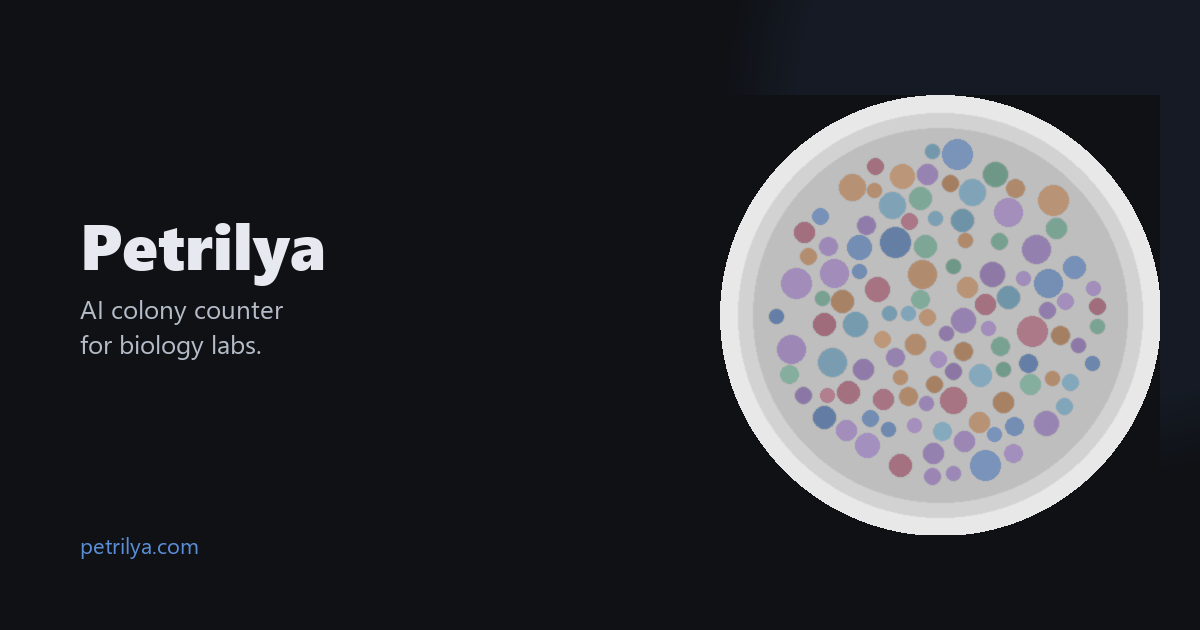
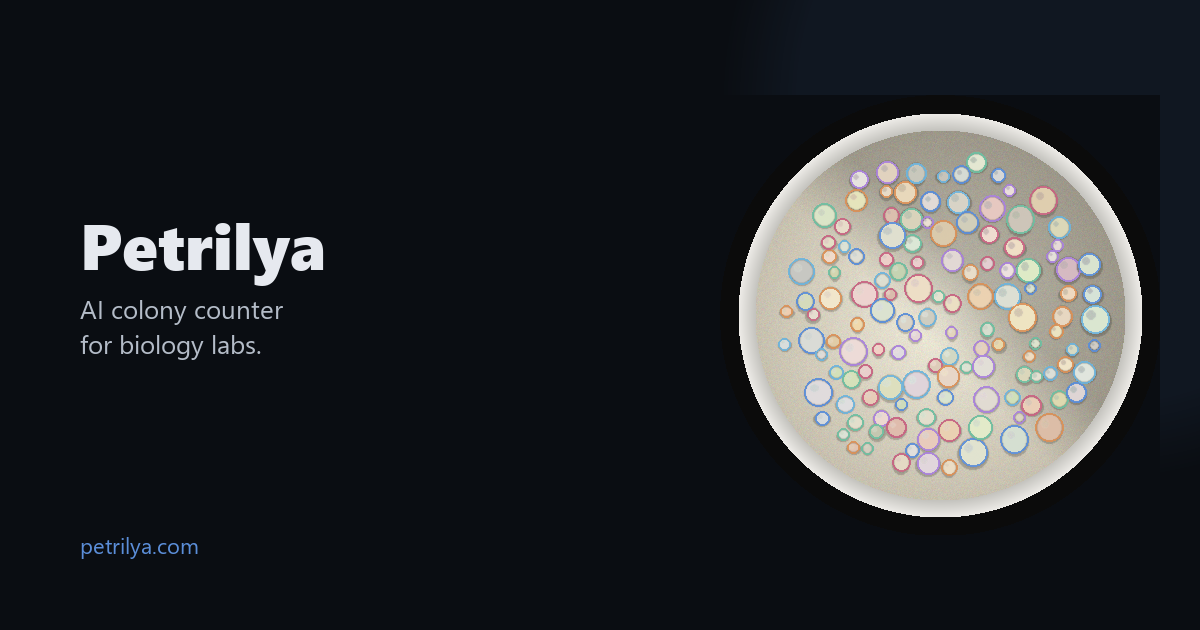
hero: photoreal Petri dish with realistic AI detection overlay
The old hero was clearly procedural — uniform colored disks on
flat gray, looked more like a kindergarten sticker than a lab
photo. Redesigned generate_hero.py to produce something a
microbiologist would recognize.

Image pipeline (1100x1100 → cropped to a circle):

1. Agar base: cream-to-tan radial gradient with film grain
   (gaussian noise), gentle top-left lighting bias to suggest a
   lab light source. No more flat gray.

2. Plastic dish rim: a darker inner-to-lighter outer band so the
   dish edge actually looks like beveled plastic.

3. Colony bodies: natural cream/pale-yellow/tan/pale-pink tones,
   not bright primary colors. Slight elliptical asymmetry. Drop
   shadow below and specular highlight at top-left for soft 3D.
   A 0.55-pixel gaussian blur ties everything into a photo, not
   geometry.

4. AI detection overlay: thin colored RING outlines (not flat
   fills) over each colony with a very faint inner tint. Looks
   like real CV bounding circles, in the brand palette.

5. ID chips: four floating "#NNN" labels with hairline connectors
   pointing to specific colonies. Selected with spacing so they
   don't crowd. Suggests a structured measurement UI, like real
   lab software.

6. Soft outer blue glow ring grounds the dish in the dark hero.

The OG social-share card uses the same pipeline (smaller dish,
no labels) so both images now share a coherent identity.

Changed region(s): [[0.5858, 0.1508, 0.9867, 0.8746]]

diff --git a/scripts/generate_hero.py b/scripts/generate_hero.py
@@ -1,7 +1,7 @@
 """Generate hero images for the landing page.
 
 Produces:
-  docs/hero-dish.png    a styled before/after of a petri dish
+  docs/hero-dish.png    a photoreal petri dish with AI detection overlay
   docs/og-image.png     a 1200x630 social-share card
 """
 
@@ -13,98 +13,272 @@ import numpy as np
 from PIL import Image, ImageDraw, ImageFilter, ImageFont
 
 
-def synthetic_dish(size: int = 900, n_colonies: int = 180, seed: int = 11) -> np.ndarray:
-    img = Image.new("L", (size, size), color=232)
-    draw = ImageDraw.Draw(img)
-    cx = cy = size // 2
-    radius = int(size * 0.46)
-    draw.ellipse((cx - radius, cy - radius, cx + radius, cy + radius), fill=210)
-    inner = int(radius * 0.93)
-    draw.ellipse((cx - inner, cy - inner, cx + inner, cy + inner), fill=190)
+# ----------------------------------------------------------------------
+# Photoreal Petri dish
+# ----------------------------------------------------------------------
 
-    rng = np.random.default_rng(seed)
-    placed = []
-    attempts = 0
-    while len(placed) < n_colonies and attempts < n_colonies * 30:
-        attempts += 1
-        x = rng.integers(cx - inner, cx + inner)
-        y = rng.integers(cy - inner, cy + inner)
-        if (x - cx) ** 2 + (y - cy) ** 2 > (inner - 22) ** 2:
-            continue
-        r = int(rng.integers(7, 16))
-        if any((x - px) ** 2 + (y - py) ** 2 < (r + pr + 2) ** 2 for px, py, pr in placed):
-            continue
-        placed.append((int(x), int(y), r))
-        shade = int(rng.integers(105, 160))
-        draw.ellipse((x - r, y - r, x + r, y + r), fill=shade)
-
-    img = img.filter(ImageFilter.GaussianBlur(0.7))
-    return np.array(img), placed
+PALETTE_DETECT = [
+    (91, 142, 217),   # accent blue
+    (111, 191, 161),  # accent green
+    (218, 145, 88),   # warm orange
+    (200, 100, 130),  # muted pink
+    (170, 130, 220),  # soft purple
+    (110, 180, 220),  # teal
+]
 
 
-def composite_overlay(base: np.ndarray, colonies: list[tuple[int, int, int]]) -> Image.Image:
-    """Apply colored translucent disks over the base photo."""
-    rgb = np.stack([base] * 3, axis=-1).astype(np.uint8)
-    out = Image.fromarray(rgb).convert("RGBA")
-    overlay = Image.new("RGBA", out.size, (0, 0, 0, 0))
+def _agar_background(size: int, cx: int, cy: int, dish_r: int, inner_r: int, rng) -> Image.Image:
+    """Render the agar interior with a soft radial gradient + film grain."""
+    yy, xx = np.ogrid[:size, :size]
+    dist = np.sqrt((xx - cx) ** 2 + (yy - cy) ** 2)
+
+    arr = np.full((size, size, 3), 11, dtype=np.uint8)  # outer dark background
+
+    # Agar interior — warm cream with subtle darkening toward the rim
+    agar_mask = dist < inner_r
+    t = np.clip(dist / inner_r, 0, 1)
+    center_col = np.array([222, 218, 202], dtype=np.float32)
+    edge_col = np.array([184, 178, 162], dtype=np.float32)
+    agar_rgb = center_col * (1 - t[..., None]) + edge_col * t[..., None]
+
+    # Subtle gradient brightening from top-left (lab light from above)
+    light = np.clip(1 - ((xx - cx) - (yy - cy)) / (inner_r * 2.5), 0.85, 1.08)
+    agar_rgb = np.clip(agar_rgb * light[..., None], 0, 255)
+
+    # Film grain (gaussian noise) — keeps the agar from looking plasticky
+    noise = rng.normal(0, 4.5, (size, size, 3))
+    agar_rgb = np.clip(agar_rgb + noise, 0, 255).astype(np.uint8)
+    arr[agar_mask] = agar_rgb[agar_mask]
+
+    # Dish plastic rim — light, with a subtle inner shadow
+    rim_mask = (dist >= inner_r) & (dist < dish_r)
+    rim_t = (dist - inner_r) / max(1, dish_r - inner_r)
+    rim_inner = np.array([196, 195, 190], dtype=np.float32)
+    rim_outer = np.array([238, 236, 232], dtype=np.float32)
+    rim_rgb = rim_inner * (1 - rim_t[..., None]) + rim_outer * rim_t[..., None]
+    rim_rgb = np.clip(rim_rgb, 0, 255).astype(np.uint8)
+    arr[rim_mask] = rim_rgb[rim_mask]
+
+    return Image.fromarray(arr)
+
+
+def _draw_colonies(
+    dish_img: Image.Image,
+    cx: int,
+    cy: int,
+    inner_r: int,
+    rng,
+    n_target: int = 220,
+) -> tuple[Image.Image, list[tuple[int, int, int]]]:
+    """Layer realistic colony blobs onto the agar; return list of (x,y,r)."""
+    size = dish_img.size[0]
+    overlay = Image.new("RGBA", (size, size), (0, 0, 0, 0))
     draw = ImageDraw.Draw(overlay)
-    rng = np.random.default_rng(42)
-    palette = [
-        (91, 142, 217),   # blue
-        (111, 191, 161),  # green
-        (218, 145, 88),   # orange
-        (200, 100, 130),  # pink
-        (170, 130, 220),  # purple
-        (110, 180, 220),  # teal
-    ]
-    for (x, y, r) in colonies:
-        color = palette[int(rng.integers(0, len(palette)))]
-        draw.ellipse((x - r, y - r, x + r, y + r), fill=(*color, 130))
-    out = Image.alpha_composite(out, overlay)
-    return out
+
+    colonies: list[tuple[int, int, int]] = []
+    margin = 26
+    attempts = 0
+    while len(colonies) < n_target and attempts < n_target * 30:
+        attempts += 1
+        # uniform-area sampling within the agar disc
+        angle = rng.uniform(0, 2 * np.pi)
+        rad = (inner_r - margin) * np.sqrt(rng.uniform(0, 1))
+        x = cx + rad * np.cos(angle)
+        y = cy + rad * np.sin(angle)
+        r = int(rng.integers(5, 14))
+        if any((x - px) ** 2 + (y - py) ** 2 < (r + pr + 1) ** 2 for px, py, pr in colonies):
+            continue
+        colonies.append((int(x), int(y), r))
+
+        # Natural colony tone: mostly cream/pale-yellow, occasionally pink/tan
+        col_pick = rng.uniform()
+        if col_pick < 0.55:
+            base = np.array([242, 236, 215])  # cream
+        elif col_pick < 0.78:
+            base = np.array([235, 223, 188])  # pale yellow
+        elif col_pick < 0.92:
+            base = np.array([220, 205, 188])  # light tan
+        else:
+            base = np.array([245, 226, 218])  # very faint pink
+        base = np.clip(base + rng.integers(-10, 10, size=3), 0, 255)
+        c = tuple(int(v) for v in base)
+
+        # slight elliptical asymmetry
+        rx = r + rng.integers(-1, 2)
+        ry = r + rng.integers(-1, 2)
+
+        # drop shadow
+        draw.ellipse(
+            (x - rx - 1.4, y - ry + 0.5, x + rx + 1.4, y + ry + 2.5),
+            fill=(20, 18, 14, 55),
+        )
+        # body
+        draw.ellipse((x - rx, y - ry, x + rx, y + ry), fill=(*c, 252))
+        # specular highlight (top-left)
+        hx = x - rx * 0.35
+        hy = y - ry * 0.35
+        hr = max(2.0, rx * 0.55)
+        highlight = tuple(int(v) for v in np.clip(base + 25, 0, 255))
+        draw.ellipse((hx - hr * 0.55, hy - hr * 0.55, hx + hr * 0.55, hy + hr * 0.55),
+                     fill=(*highlight, 110))
+
+    # tiny gaussian blur sells the photographic look
+    overlay = overlay.filter(ImageFilter.GaussianBlur(0.55))
+    return Image.alpha_composite(dish_img.convert("RGBA"), overlay), colonies
 
 
-def crop_circle(img: Image.Image) -> Image.Image:
-    """Crop a square image to a centered circle on a dark background."""
-    size = img.size[0]
-    mask = Image.new("L", img.size, 0)
+def _ai_detection_layer(size: int, colonies: list[tuple[int, int, int]]) -> Image.Image:
+    """Thin colored detection rings (not flat fills) — looks like real CV output."""
+    layer = Image.new("RGBA", (size, size), (0, 0, 0, 0))
+    draw = ImageDraw.Draw(layer)
+    for i, (x, y, r) in enumerate(colonies):
+        color = PALETTE_DETECT[i % len(PALETTE_DETECT)]
+        # super-faint inner tint
+        draw.ellipse(
+            (x - r - 1, y - r - 1, x + r + 1, y + r + 1),
+            fill=(*color, 38),
+        )
+        # outline
+        draw.ellipse(
+            (x - r - 1, y - r - 1, x + r + 1, y + r + 1),
+            outline=(*color, 235),
+            width=2,
+        )
+    return layer
+
+
+def _id_labels(
+    size: int,
+    colonies: list[tuple[int, int, int]],
+    rng,
+    n_labels: int = 5,
+) -> Image.Image:
+    """Floating ID chips connected to a handful of colonies."""
+    layer = Image.new("RGBA", (size, size), (0, 0, 0, 0))
+    draw = ImageDraw.Draw(layer)
+    try:
+        font = ImageFont.truetype("segoeui.ttf", 13)
+    except OSError:
+        try:
+            font = ImageFont.truetype("DejaVuSans.ttf", 13)
+        except OSError:
+            font = ImageFont.load_default()
+
+    # pick well-spaced colonies
+    if not colonies:
+        return layer
+    picks: list[int] = []
+    candidates = list(range(len(colonies)))
+    rng.shuffle(candidates)
+    for idx in candidates:
+        x, y, _ = colonies[idx]
+        if all(
+            (x - colonies[p][0]) ** 2 + (y - colonies[p][1]) ** 2 > (size * 0.18) ** 2
+            for p in picks
+        ):
+            picks.append(idx)
+        if len(picks) >= n_labels:
+            break
+
+    for idx in picks:
+        x, y, r = colonies[idx]
+        label = f"#{idx + 1:03d}"
+        text_w = draw.textlength(label, font=font)
+        text_h = 14
+        # offset the chip up-and-right or up-and-left based on position
+        side = 1 if x < size * 0.55 else -1
+        lx = x + side * (r + 18)
+        ly = y - r - 22
+        if side == -1:
+            lx -= text_w + 12
+
+        chip = (lx - 6, ly - 3, lx + text_w + 6, ly + text_h + 3)
+        # connector
+        draw.line(
+            ((chip[0] + chip[2]) / 2, chip[3], x + (r * 0.6 * -side), y - r * 0.4),
+            fill=(91, 142, 217, 180),
+            width=1,
+        )
+        # pill
+        draw.rounded_rectangle(
+            chip,
+            radius=5,
+            fill=(15, 19, 26, 215),
+            outline=(91, 142, 217, 200),
+            width=1,
+        )
+        draw.text((lx, ly), label, fill=(225, 232, 245, 245), font=font)
+    return layer
+
+
+def make_hero_dish(out_path: Path, size: int = 1100) -> None:
+    rng = np.random.default_rng(7)
+    cx = cy = size // 2
+    dish_r = int(size * 0.46)
+    inner_r = int(dish_r * 0.92)
+
+    img = _agar_background(size, cx, cy, dish_r, inner_r, rng)
+    img, colonies = _draw_colonies(img, cx, cy, inner_r, rng, n_target=210)
+    img = Image.alpha_composite(img, _ai_detection_layer(size, colonies))
+    img = Image.alpha_composite(img, _id_labels(size, colonies, rng, n_labels=4))
+
+    # outer vignette ring around the dish for grounding
+    glow = Image.new("RGBA", (size, size), (0, 0, 0, 0))
+    gd = ImageDraw.Draw(glow)
+    for i in range(14, 0, -1):
+        gd.ellipse(
+            (cx - dish_r - i * 3, cy - dish_r - i * 3, cx + dish_r + i * 3, cy + dish_r + i * 3),
+            outline=(91, 142, 217, max(0, 6 - i // 2)),
+            width=2,
+        )
+    glow = glow.filter(ImageFilter.GaussianBlur(8))
+    img = Image.alpha_composite(glow, img)
+
+    # crop to a square circle on dark background
+    mask = Image.new("L", (size, size), 0)
     ImageDraw.Draw(mask).ellipse((0, 0, size, size), fill=255)
-    bg = Image.new("RGBA", img.size, (15, 17, 21, 255))
+    bg = Image.new("RGBA", (size, size), (10, 13, 18, 255))
+    bg.paste(img, (0, 0), mask)
+
+    bg.save(out_path, "PNG", optimize=True)
+    print(f"Saved {out_path} ({bg.size[0]}x{bg.size[1]})")
+
+
+# ----------------------------------------------------------------------
+# OG image
+# ----------------------------------------------------------------------
+
+def _mini_dish(size: int = 480) -> Image.Image:
+    rng = np.random.default_rng(3)
+    cx = cy = size // 2
+    dish_r = int(size * 0.46)
+    inner_r = int(dish_r * 0.92)
+    img = _agar_background(size, cx, cy, dish_r, inner_r, rng)
+    img, colonies = _draw_colonies(img, cx, cy, inner_r, rng, n_target=130)
+    img = Image.alpha_composite(img, _ai_detection_layer(size, colonies))
+    mask = Image.new("L", (size, size), 0)
+    ImageDraw.Draw(mask).ellipse((0, 0, size, size), fill=255)
+    bg = Image.new("RGBA", (size, size), (10, 13, 18, 255))
     bg.paste(img, (0, 0), mask)
     return bg
 
 
-def make_hero_dish(out_path: Path) -> None:
-    base, colonies = synthetic_dish(size=900, n_colonies=200)
-    overlaid = composite_overlay(base, colonies)
-    circled = crop_circle(overlaid)
-    circled.save(out_path, "PNG", optimize=True)
-    print(f"Saved {out_path} ({circled.size[0]}x{circled.size[1]})")
-
-
 def make_og_image(out_path: Path) -> None:
-    """1200x630 social-share image."""
     W, H = 1200, 630
-    canvas = Image.new("RGB", (W, H), (15, 17, 21))
-
-    # gradient blob
+    canvas = Image.new("RGB", (W, H), (10, 13, 18))
     blob = Image.new("RGBA", (W, H), (0, 0, 0, 0))
-    blob_draw = ImageDraw.Draw(blob)
+    bd = ImageDraw.Draw(blob)
     for i in range(80, 0, -1):
-        alpha = int(80 * (1 - i / 80))
-        blob_draw.ellipse(
+        alpha = max(0, 80 - i) // 4
+        bd.ellipse(
             (W - 400 - i, -200 - i, W + 200 + i, 400 + i),
-            fill=(91, 142, 217, alpha // 4),
+            fill=(91, 142, 217, alpha),
         )
     canvas = Image.alpha_composite(canvas.convert("RGBA"), blob).convert("RGB")
 
-    # mini dish
-    base, colonies = synthetic_dish(size=440, n_colonies=110, seed=3)
-    overlaid = composite_overlay(base, colonies)
-    circled = crop_circle(overlaid)
-    canvas.paste(circled.convert("RGB"), (W - 480, (H - 440) // 2))
+    mini = _mini_dish(440)
+    canvas.paste(mini.convert("RGB"), (W - 480, (H - 440) // 2))
 
-    # text
     draw = ImageDraw.Draw(canvas)
     try:
         font_big = ImageFont.truetype("seguibl.ttf", 64)